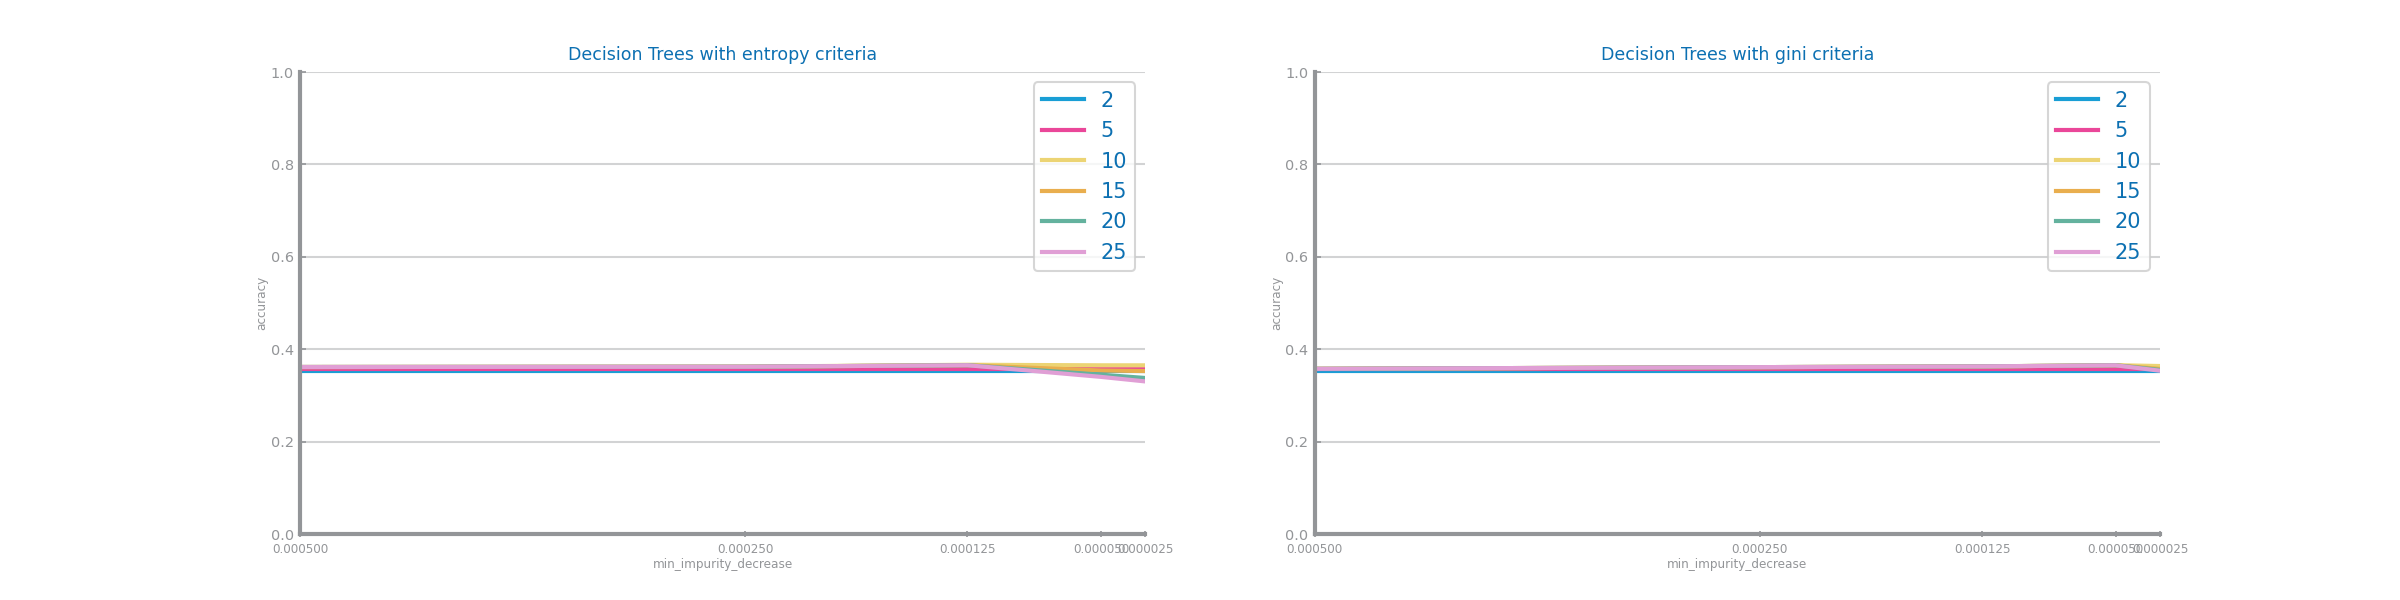
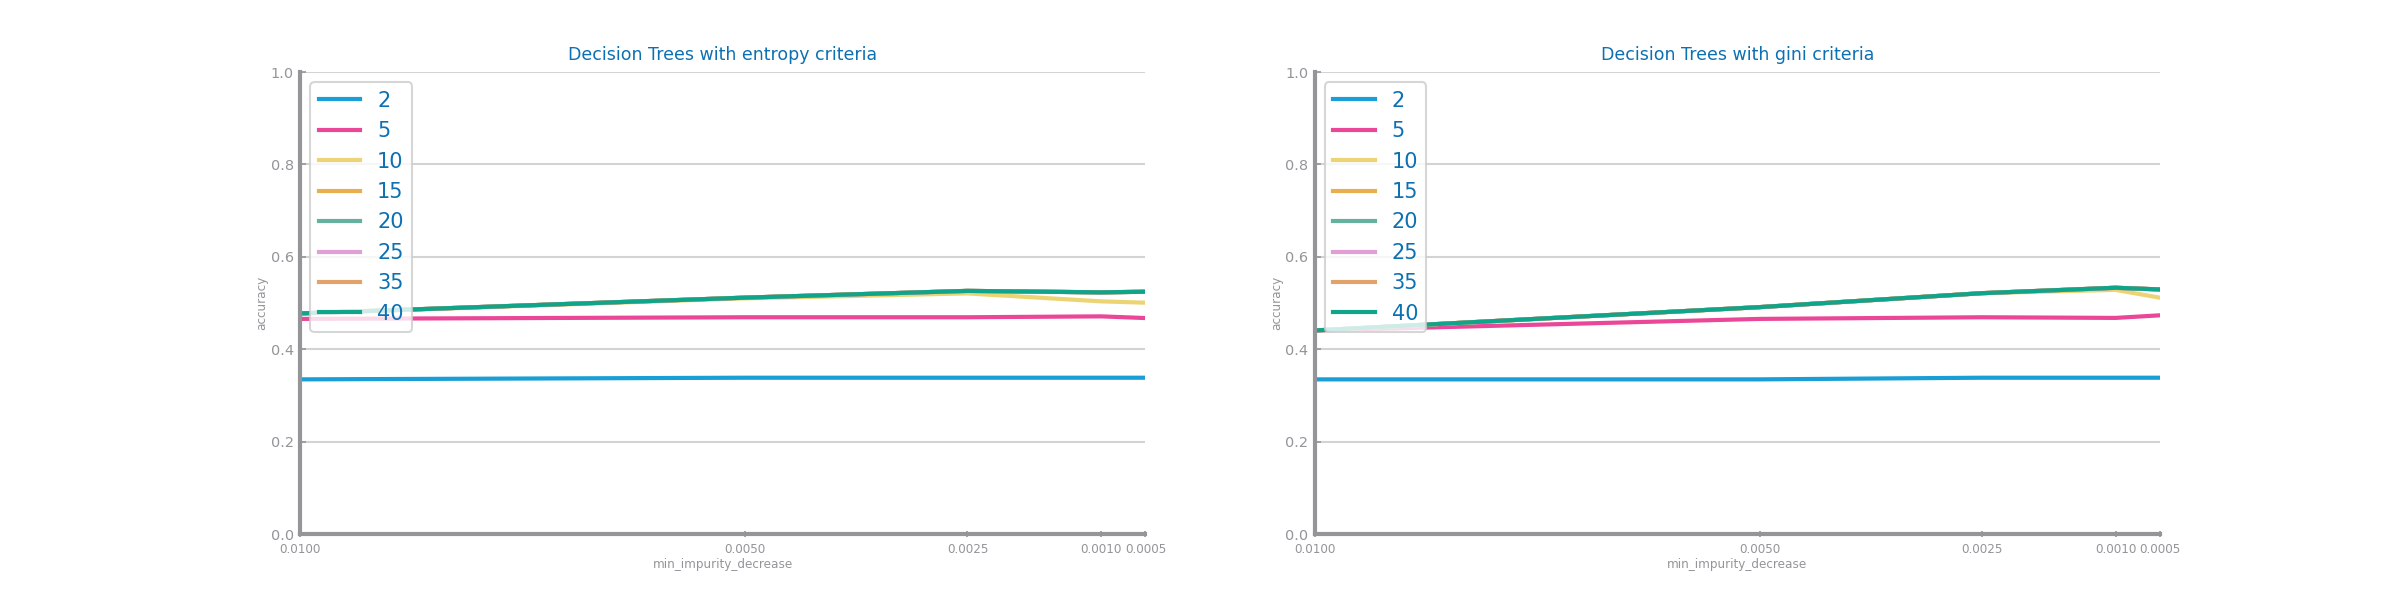
feat: dt

diff --git a/health/src/evaluation/decision_tree_classifier.py b/health/src/evaluation/decision_tree_classifier.py
@@ -31,7 +31,7 @@ class DTClassifier:
     self.tstX: ndarray = data_test.values
 
     self.min_impurity_decrease = [0.01, 0.005, 0.0025, 0.001, 0.0005]
-    self.max_depths = [2, 5, 10, 15, 20, 25]
+    self.max_depths = [2, 5, 10, 15, 20, 25, 35, 40]
     self.criteria = ['entropy', 'gini']
     self.best = ('',  0, 0.0)
     self.last_best = 0
@@ -120,18 +120,19 @@ class DTClassifier:
 
   def compute_best_dt_overfit(self, criteria: str, impurity: int):
 
-    def plot_overfitting_study(xvalues, prd_trn, prd_tst, name, xlabel, ylabel, pct=True):
+    def plot_overfitting_study(t, xvalues, prd_trn, prd_tst, name, xlabel, ylabel, pct=True):
       evals = {'Train': prd_trn, 'Test': prd_tst}
       figure()
       multiple_line_chart(xvalues, evals, ax = None, title=f'Overfitting {name}', xlabel=xlabel, ylabel=ylabel, percentage=pct)
-      savefig('health/records/evaluation/dt_overfitting_exploration.png')
+      savefig(f'health/records/evaluation/dt_overfitting_exploration_{t}.png')
 
     print("Computing best decision tree overfitting....")
     imp = impurity
     f = criteria
-    eval_metric = accuracy_score
     y_tst_values = []
     y_trn_values = []
+    y_test_values_f1 = []
+    y_train_values_f1 = []
     figure()
     for d in self.max_depths:
         tree = DecisionTreeClassifier(max_depth=d, criterion=f, min_impurity_decrease=imp)
@@ -139,6 +140,9 @@ class DTClassifier:
         prdY = tree.predict(self.tstX)
         prd_tst_Y = tree.predict(self.tstX)
         prd_trn_Y = tree.predict(self.trnX)
-        y_tst_values.append(eval_metric(self.tstY, prd_tst_Y))
-        y_trn_values.append(eval_metric(self.trnY, prd_trn_Y))
-    plot_overfitting_study(self.max_depths, y_trn_values, y_tst_values, name=f'DT=imp{imp}_{f}', xlabel='max_depth', ylabel=str(eval_metric))
+        y_tst_values.append(accuracy_score(self.tstY, prd_tst_Y))
+        y_trn_values.append(accuracy_score(self.trnY, prd_trn_Y))
+        y_test_values_f1.append(f1_score(self.tstY, prd_tst_Y, average="macro"))
+        y_train_values_f1.append(f1_score(self.trnY, prd_trn_Y, average="macro"))
+    plot_overfitting_study('accuracy', self.max_depths, y_trn_values, y_tst_values, name=f'DT=imp{imp}_{f}_accuracy', xlabel='max_depth', ylabel=str(accuracy_score))
+    plot_overfitting_study('f1', self.max_depths, y_train_values_f1, y_test_values_f1, name=f'DT=imp{imp}_{f}_f1', xlabel='max_depth', ylabel=str(f1_score))

diff --git a/health/src/main.py b/health/src/main.py
@@ -61,40 +61,40 @@ if __name__ == "__main__":
 
   # ----------------------------- 2º Phase -> Data preparation -------  ---------------------- #
 
-  # data = read_csv(INPUT_FILE_PATH, na_values='na')
+  data = read_csv(INPUT_FILE_PATH, na_values='na')
  
-  # parser = Parser(data, MISSING_VALUES_REPR)
-  # data = parser.parse_dataset(PREPARATION_OUT_FILE_PATH)
+  parser = Parser(data, MISSING_VALUES_REPR)
+  data = parser.parse_dataset(PREPARATION_OUT_FILE_PATH)
  
-  # mvi = MVImputation(data, MISSING_VALUES_REPR)
-  # data = mvi.compute_mv_imputation(INPUTATION_OUT_FILE_PATH)
+  mvi = MVImputation(data, MISSING_VALUES_REPR)
+  data = mvi.compute_mv_imputation(INPUTATION_OUT_FILE_PATH)
 
-  # outliers = OutliersImputation(data)
-  # data = outliers.compute_outliers()
+  outliers = OutliersImputation(data)
+  data = outliers.compute_outliers()
   
-  # scaling = Scaling(data)
-  # data = scaling.compute_scale()
+  scaling = Scaling(data)
+  data = scaling.compute_scale()
   
-  # # Removes single value columns
-  # ms = [
-  #   'acetohexamide', 'examide', 'citoglipton', 
-  # ]
-  # data = data.drop(columns=ms)
+  # Removes single value columns
+  ms = [
+    'acetohexamide', 'examide', 'citoglipton', 
+  ]
+  data = data.drop(columns=ms)
 
-  # # Splits data before evaluation
-  # X = data.drop("readmitted", axis=1)
-  # y = data["readmitted"]
-  # X_train, X_test, y_train, y_test = train_test_split(X, y, train_size=0.7)
+  # Splits data before evaluation
+  X = data.drop("readmitted", axis=1)
+  y = data["readmitted"]
+  X_train, X_test, y_train, y_test = train_test_split(X, y, train_size=0.7)
 
-  # data_train = concat([DataFrame(X_train), DataFrame(y_train)], axis=1)
+  data_train = concat([DataFrame(X_train), DataFrame(y_train)], axis=1)
 
-  # balancing = Balancing(data_train)
-  # data = balancing.compute_balancing()
+  balancing = Balancing(data_train)
+  data = balancing.compute_balancing()
 
-  # data.to_csv(PREPARATION_OUT_FILE_PATH_TRAIN)
+  data.to_csv(PREPARATION_OUT_FILE_PATH_TRAIN, index=False)
   
-  # data_test = concat([DataFrame(X_test), DataFrame(y_test)], axis=1)
-  # data_test.to_csv(PREPARATION_OUT_FILE_PATH_TEST)
+  data_test = concat([DataFrame(X_test), DataFrame(y_test)], axis=1)
+  data_test.to_csv(PREPARATION_OUT_FILE_PATH_TEST, index=False)
 
   # ----------------------------- 3º Phase -> Evaluation -------  ---------------------- #
 

diff --git a/climate/src/evaluation/decision_tree_classifier.py b/climate/src/evaluation/decision_tree_classifier.py
@@ -120,18 +120,19 @@ class DTClassifier:
 
   def compute_best_dt_overfit(self, criteria: str, impurity: int):
 
-    def plot_overfitting_study(xvalues, prd_trn, prd_tst, name, xlabel, ylabel, pct=True):
+    def plot_overfitting_study(t, xvalues, prd_trn, prd_tst, name, xlabel, ylabel, pct=True):
       evals = {'Train': prd_trn, 'Test': prd_tst}
       figure()
       multiple_line_chart(xvalues, evals, ax = None, title=f'Overfitting {name}', xlabel=xlabel, ylabel=ylabel, percentage=pct)
-      savefig('climate/records/evaluation/dt_overfitting_exploration.png')
+      savefig(f'climate/records/evaluation/dt_overfitting_exploration_{t}.png')
 
     print("Computing best decision tree overfitting....")
     imp = impurity
     f = criteria
-    eval_metric = accuracy_score
     y_tst_values = []
     y_trn_values = []
+    y_test_values_f1 = []
+    y_train_values_f1 = []
     figure()
     for d in self.max_depths:
         tree = DecisionTreeClassifier(max_depth=d, criterion=f, min_impurity_decrease=imp)
@@ -139,6 +140,9 @@ class DTClassifier:
         prdY = tree.predict(self.tstX)
         prd_tst_Y = tree.predict(self.tstX)
         prd_trn_Y = tree.predict(self.trnX)
-        y_tst_values.append(eval_metric(self.tstY, prd_tst_Y))
-        y_trn_values.append(eval_metric(self.trnY, prd_trn_Y))
-    plot_overfitting_study(self.max_depths, y_trn_values, y_tst_values, name=f'DT=imp{imp}_{f}', xlabel='max_depth', ylabel=str(eval_metric))
+        y_tst_values.append(accuracy_score(self.tstY, prd_tst_Y))
+        y_trn_values.append(accuracy_score(self.trnY, prd_trn_Y))
+        y_test_values_f1.append(f1_score(self.tstY, prd_tst_Y))
+        y_train_values_f1.append(f1_score(self.trnY, prd_trn_Y))
+    plot_overfitting_study('accuracy', self.max_depths, y_trn_values, y_tst_values, name=f'DT=imp{imp}_{f}_accuracy', xlabel='max_depth', ylabel=str(accuracy_score))
+    plot_overfitting_study('f1', self.max_depths, y_train_values_f1, y_test_values_f1, name=f'DT=imp{imp}_{f}_f1', xlabel='max_depth', ylabel=str(f1_score))

diff --git a/climate/src/main.py b/climate/src/main.py
@@ -31,34 +31,34 @@ if __name__ == "__main__":
 
   # ----------------------------- 2º Phase -> Data preparation -------  ---------------------- #
 
-  # data = read_csv(FILE_PATH, na_values='na')
+  data = read_csv(FILE_PATH, na_values='na')
 
-  # parser = Parser(data)
-  # data = parser.parse_dataset(PREPARATION_OUT_FILE_PATH)
+  parser = Parser(data)
+  data = parser.parse_dataset(PREPARATION_OUT_FILE_PATH)
 
-  # outliers = OutliersImputation(data)
-  # data = outliers.compute_outliers()
+  outliers = OutliersImputation(data)
+  data = outliers.compute_outliers()
   
-  # scaling = Scaling(data)
-  # data = scaling.compute_scale()
+  scaling = Scaling(data)
+  data = scaling.compute_scale()
 
-  # # Remove single values columns
-  # ms = ['NVG_LAND', 'SQ5', 'SQ6']
-  # data = data.drop(columns=ms)
+  # Remove single values columns
+  ms = ['NVG_LAND', 'SQ5', 'SQ6']
+  data = data.drop(columns=ms)
 
-  # # Splits data before evaluation
-  # X = data.drop("class", axis=1)
-  # y = data["class"]
-  # X_train, X_test, y_train, y_test = train_test_split(X, y, train_size=0.7)
+  # Splits data before evaluation
+  X = data.drop("class", axis=1)
+  y = data["class"]
+  X_train, X_test, y_train, y_test = train_test_split(X, y, train_size=0.7)
 
-  # data_train = concat([DataFrame(X_train), DataFrame(y_train)], axis=1)
+  data_train = concat([DataFrame(X_train), DataFrame(y_train)], axis=1)
 
-  # balancing = Balancing(data_train)
-  # data = balancing.compute_balancing()
-  # data.to_csv(PREPARATION_OUT_FILE_PATH_TRAIN)
+  balancing = Balancing(data_train)
+  data = balancing.compute_balancing()
+  data.to_csv(PREPARATION_OUT_FILE_PATH_TRAIN, index=False)
   
-  # data_test = concat([DataFrame(X_test), DataFrame(y_test)], axis=1)
-  # data_test.to_csv(PREPARATION_OUT_FILE_PATH_TEST)
+  data_test = concat([DataFrame(X_test), DataFrame(y_test)], axis=1)
+  data_test.to_csv(PREPARATION_OUT_FILE_PATH_TEST, index=False)
 
   # # ----------------------------- 3º Phase -> Evaluation -------  ---------------------- #
 
